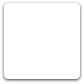
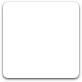
add a corner label

diff --git a/softwarecenter/ui/gtk3/css/softwarecenter.css b/softwarecenter/ui/gtk3/css/softwarecenter.css
@@ -1,7 +1,7 @@
 #view {
     border-width: 0;
     background-color: #DED7DB;
-    /*  background-image: url('../art/stipple.png'); */
+    /*  background-image: url('../art/stipple.png') repeat; */
 }
 
 
@@ -18,7 +18,7 @@
 #featured-tile,
 #category-tile {
     border-width: 0;
-    border-radius: 4;
+    border-radius: 5;
 }
 
 #placeholder-banner-ad {

diff --git a/softwarecenter/ui/gtk3/widgets/containers.py b/softwarecenter/ui/gtk3/widgets/containers.py
@@ -1,5 +1,7 @@
 from gi.repository import Gtk, Gdk, GdkPixbuf
 
+from math import pi
+
 from softwarecenter.ui.gtk3.em import StockEms
 from softwarecenter.ui.gtk3.drawing import rounded_rect
 
@@ -131,13 +133,20 @@ _frame_asset_cache = {}
 class Frame(Gtk.Alignment):
 
     BORDER_IMAGE = "softwarecenter/ui/gtk3/art/frame-border-image.png"
+    CORNER_LABEL = "softwarecenter/ui/gtk3/art/corner-label.png"
 
-    def __init__(self, padding=4, border_radius=4):
+    def __init__(self, padding=3, border_radius=5):
         Gtk.Alignment.__init__(self)
         self.set_padding(padding, padding, padding, padding)
+
+        # corner lable jazz
+        self.show_corner_label = False
+        self.layout = self.create_pango_layout("")
+
         assets = self._cache_art_assets()
-        self.connect("draw", self.on_draw,
-                     border_radius, assets)
+        self.connect("draw", self.on_draw, border_radius, assets)
+        self.connect_after("draw", self.on_draw_after,
+                           assets, self.layout)
         return
 
     def _cache_art_assets(self):
@@ -258,15 +267,54 @@ class Frame(Gtk.Alignment):
         cr.restore()
 
         # fill interior
-        rounded_rect(cr, 4, 3, a.width-8, a.height-7, border_radius)
+        rounded_rect(cr, 3, 2, a.width-6, a.height-6, border_radius)
         cr.set_source_rgba(1,1,1,0.75)
         cr.fill()
+        return
+
+    def on_draw_after(self, widget, cr, assets, layout):
+        if not self.show_corner_label: return
+        surf = assets["corner-label"]
+        w = surf.get_width()
+        h = surf.get_height()
+        cr.reset_clip()
+        cr.rectangle(-4, -4, w+4, h+4)
+        cr.clip()
+        cr.set_source_surface(surf, -2, -3)
+        cr.paint()
+
+        ex = layout.get_pixel_extents()[1]
+        cr.translate(w/2-12, h/2-12)
+        cr.rotate(-pi*0.25)
+        Gtk.render_layout(widget.get_style_context(), cr, -ex.width/2, -ex.height/2, layout)
+        return
+
+    def set_show_corner_label(self, show_label):
+        if self.show_corner_label == show_label: return
+        global _frame_asset_cache
+        assets = _frame_asset_cache
+
+        if "corner-label" not in assets:
+            # cache corner label
+            import cairo
+            surf = cairo.ImageSurface.create_from_png(self.CORNER_LABEL)
+            assets["corner-label"] = surf
+
+        self.show_corner_label = show_label
+        self.queue_draw()
+        return
+
+    def set_corner_label_markup(self, markup):
+        markup = '<span font_desc="10" color="white"><b>%s</b></span>' % markup
+        self.set_show_corner_label(True)
+        self.layout.set_markup(markup, -1)
+        self.queue_draw()
         return
 
 
 class FramedBox(Frame):
 
-    def __init__(self, orientation=Gtk.Orientation.VERTICAL, spacing=0, padding=4):
+    def __init__(self, orientation=Gtk.Orientation.VERTICAL, spacing=0, padding=3):
         Frame.__init__(self, padding)
         self.box = Gtk.Box.new(orientation, spacing)
         self.add(self.box)

diff --git a/softwarecenter/ui/gtk3/widgets/buttons.py b/softwarecenter/ui/gtk3/widgets/buttons.py
@@ -83,12 +83,11 @@ class FeaturedTile(Tile):
 
         self.content_box = Gtk.Box.new(Gtk.Orientation.VERTICAL,
                                        StockEms.SMALL)
-        self.box.pack_start(self.content_box, False, False, 0)
+        self.box.pack_start(self.content_box, False, False, StockEms.MEDIUM)
 
         self.title = Gtk.Label.new(label)
         self.title.set_alignment(0.0, 0.5)
         self.title.set_use_markup(True)
-        #~ self.label.set_line_wrap(False)
         self.title.set_ellipsize(Pango.EllipsizeMode.END)
         self.content_box.pack_start(self.title, False, False, 0)
 

diff --git a/softwarecenter/ui/gtk3/views/catview_gtk.py b/softwarecenter/ui/gtk3/views/catview_gtk.py
@@ -243,6 +243,7 @@ class LobbyViewGtk(CategoriesViewGtk):
         self.featured.col_spacing = 0
         self.featured.row_spacing = StockEms.SMALL
         frame = Frame()
+        frame.set_corner_label_markup(_("New"))
         frame.add(self.featured)
         self.top_hbox.pack_start(frame, True, True, 0)
 
